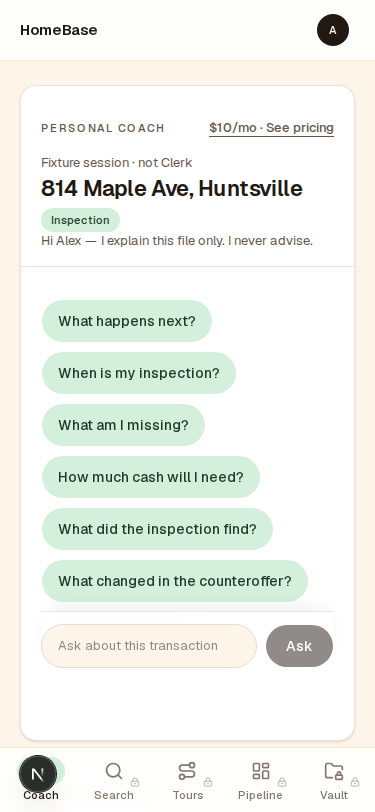
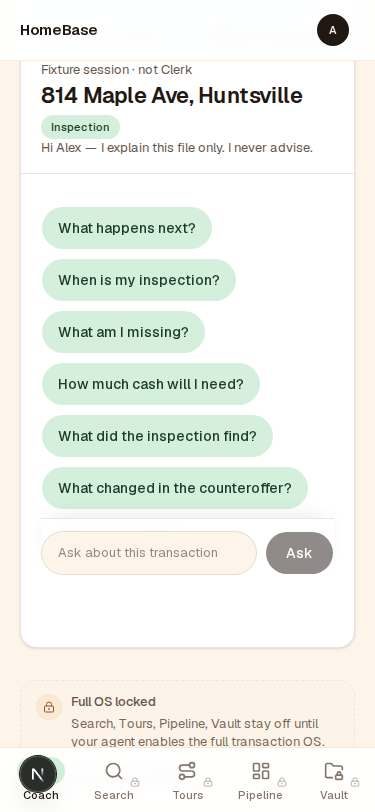
test(e2e): wait for in-viewport proof on pricing disclaimer and coach lock summary @375

Changed region(s): [[0.088, 0.0616, 0.9387, 0.8313], [0.088, 0.8313, 0.8507, 0.9236], [0.0587, 0.7697, 0.1173, 0.8005]]

diff --git a/e2e/critiquito-holes-proof.spec.ts b/e2e/critiquito-holes-proof.spec.ts
@@ -52,7 +52,11 @@ test("critiquito holes proof @375 — design queue post-#56", async ({ page }) =
     fullPage: false,
   });
 
+  const pricingDisclaimer = page.getByTestId("pricing-locked-os-disclaimer");
   await page.getByTestId("pricing-not-included-heading").scrollIntoViewIfNeeded();
+  await pricingDisclaimer.scrollIntoViewIfNeeded();
+  await expect(pricingDisclaimer).toBeInViewport();
+  await expect(pricingDisclaimer).toHaveText(BUYER_LOCKED_OS_PAYMENT_DISCLAIMER);
   await page.screenshot({
     path: path.join(PROOF_DIR, "pricing-upsell-section-375.png"),
     fullPage: false,
@@ -70,7 +74,11 @@ test("critiquito holes proof @375 — design queue post-#56", async ({ page }) =
   });
 
   await signInAlex(page);
-  await expect(page.getByTestId("locked-upsell-rail-summary")).toBeVisible();
+  const fileSessionLockSummary = page.getByTestId("locked-upsell-rail-summary");
+  await expect(fileSessionLockSummary).toBeVisible();
+  await fileSessionLockSummary.scrollIntoViewIfNeeded();
+  await expect(fileSessionLockSummary).toBeInViewport();
+  await expect(fileSessionLockSummary.getByText("Full OS locked")).toBeVisible();
   await page.screenshot({
     path: path.join(PROOF_DIR, "coach-file-session-lock-summary-375.png"),
     fullPage: false,
